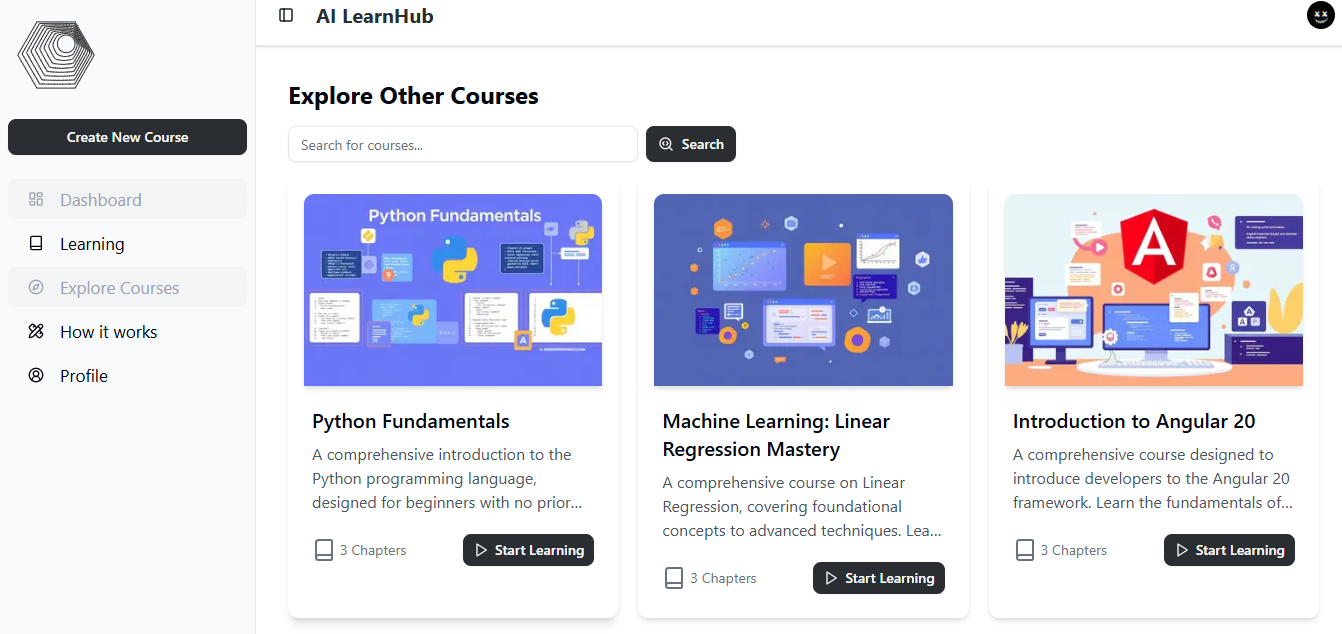
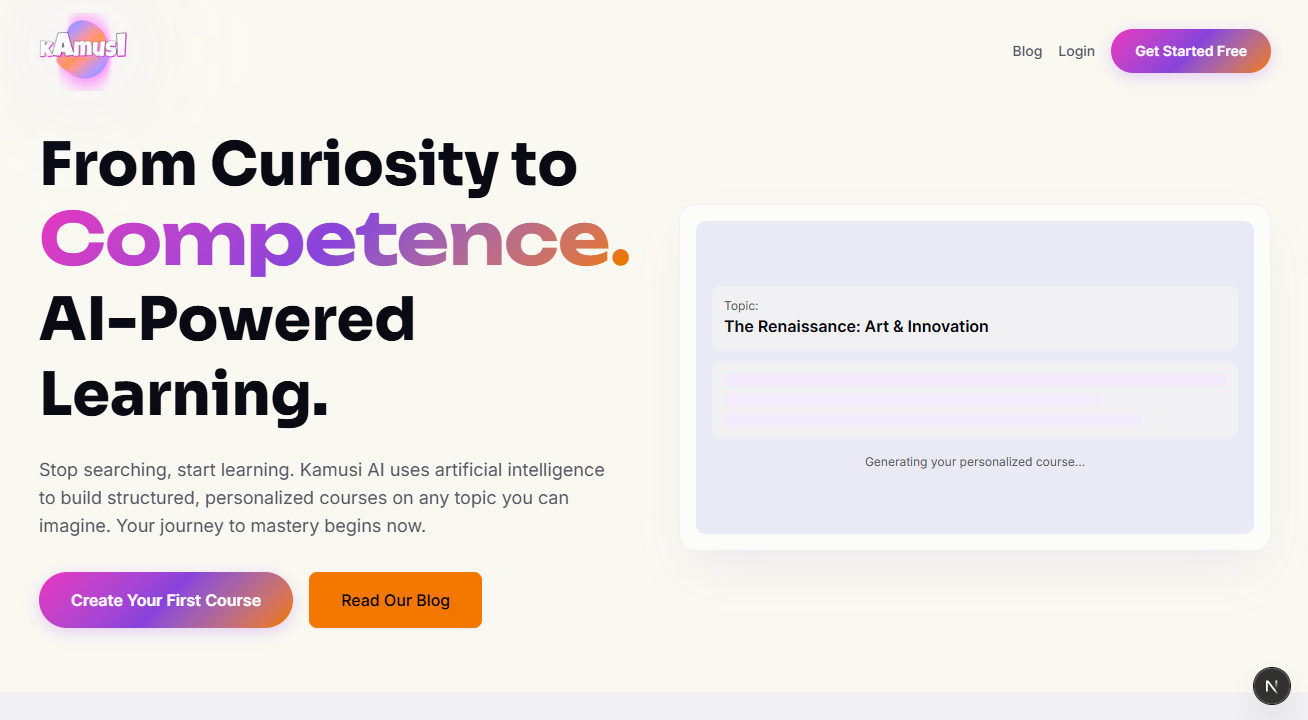
kamusi update

diff --git a/src/lib/data/projects.ts b/src/lib/data/projects.ts
@@ -61,8 +61,8 @@ export const projects: Project[] = [
       "An AI-powered platform for generating and learning from custom courses.",
     longDescription:
       "**Problem:** Creating comprehensive educational content is time-consuming.\n**Solution:** An AI-powered platform that dynamically generates courses with chapters and video resources.\n**Stack:** Next.js, Tailwind CSS, Clerk, Shadcn UI, Google Gemini API.\n**Impact:** Revolutionizes content creation and provides a rich, interactive learning experience.",
-    website: "https://kamusi.denexsoftware.co.ke/",
-    github: "https://github.com/Leon8M/LearnWithAi",
+    website: "https://kamusi.denex.co.ke/",
+    github: "https://github.com/Leon8M/Ai-LearnHub",
     screenshot: "/projects/learnai.png",
     technologies: [
       "Next.js",
